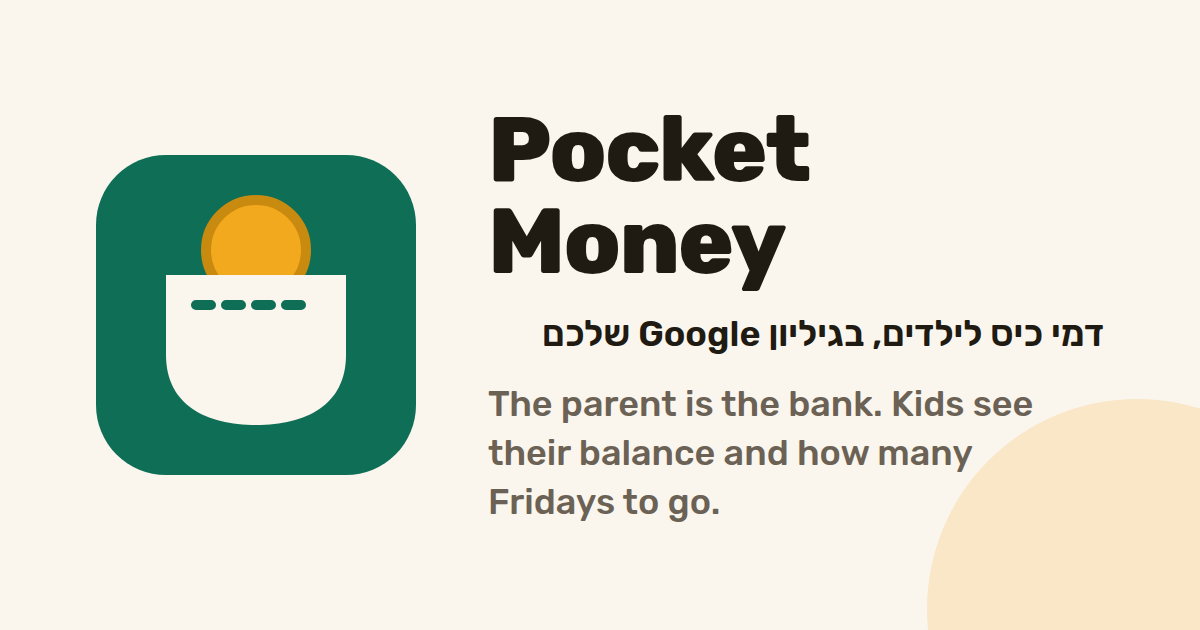
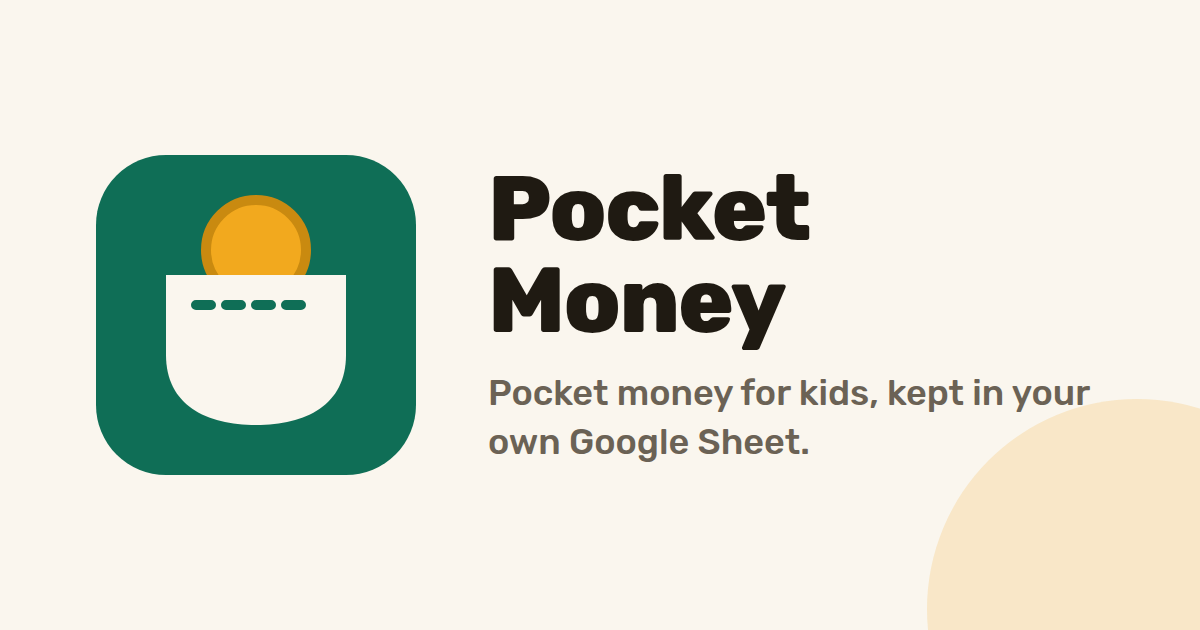
Link preview: one plain English line
Claude-Session: https://claude.ai/code/session_0111oEBTPgtEotEZnCXRPC8H

Changed region(s): [[0.4008, 0.181, 0.925, 0.573], [0.4008, 0.6032, 0.925, 0.8444]]

diff --git a/index.html b/index.html
@@ -6,17 +6,14 @@
     <meta name="theme-color" content="#faf6ee" />
     <link rel="icon" href="/icons/icon.svg" type="image/svg+xml" />
     <title>Pocket Money</title>
-    <meta
-      name="description"
-      content="A family pocket-money ledger in your own Google Sheet. The parent is the bank; kids see their balance and how many paydays to their goal."
-    />
+    <meta name="description" content="Pocket money for kids, kept in your own Google Sheet." />
     <!-- Link previews (WhatsApp, Telegram, Slack, iMessage). -->
     <meta property="og:type" content="website" />
     <meta property="og:site_name" content="Pocket Money" />
     <meta property="og:title" content="Pocket Money" />
     <meta
       property="og:description"
-      content="דמי כיס לילדים, בגיליון Google שלכם · A family pocket-money ledger. The parent is the bank."
+      content="Pocket money for kids, kept in your own Google Sheet."
     />
     <meta property="og:url" content="https://pocketmoney.nevet.me/" />
     <meta property="og:image" content="https://pocketmoney.nevet.me/og.png" />
